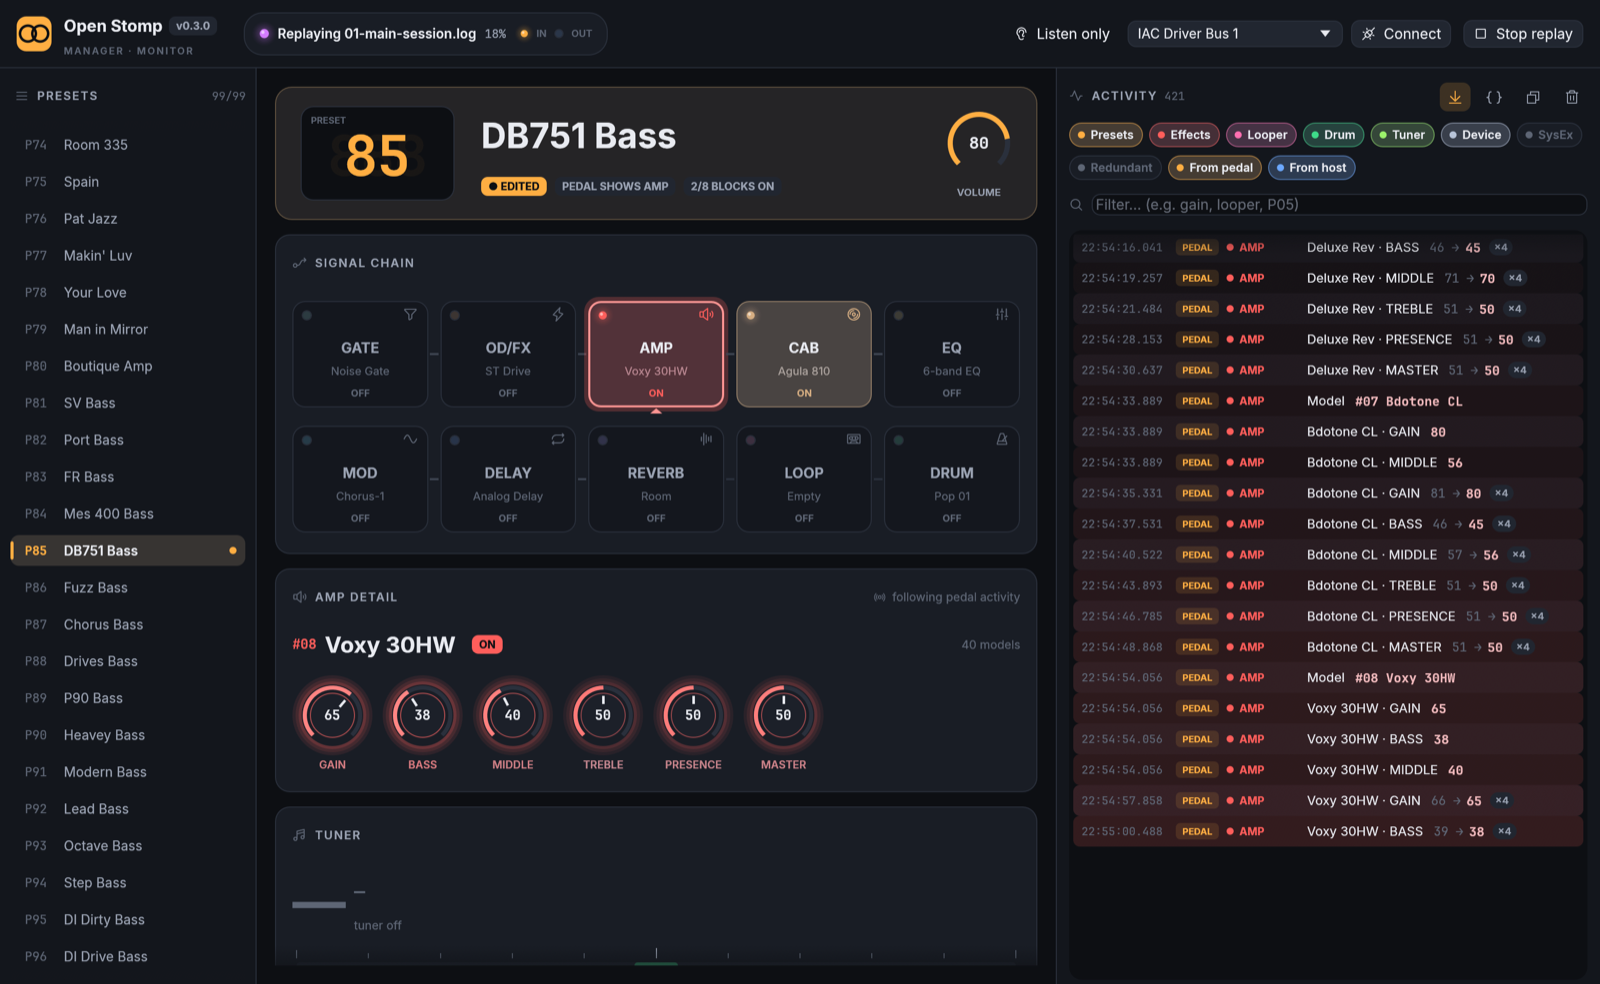
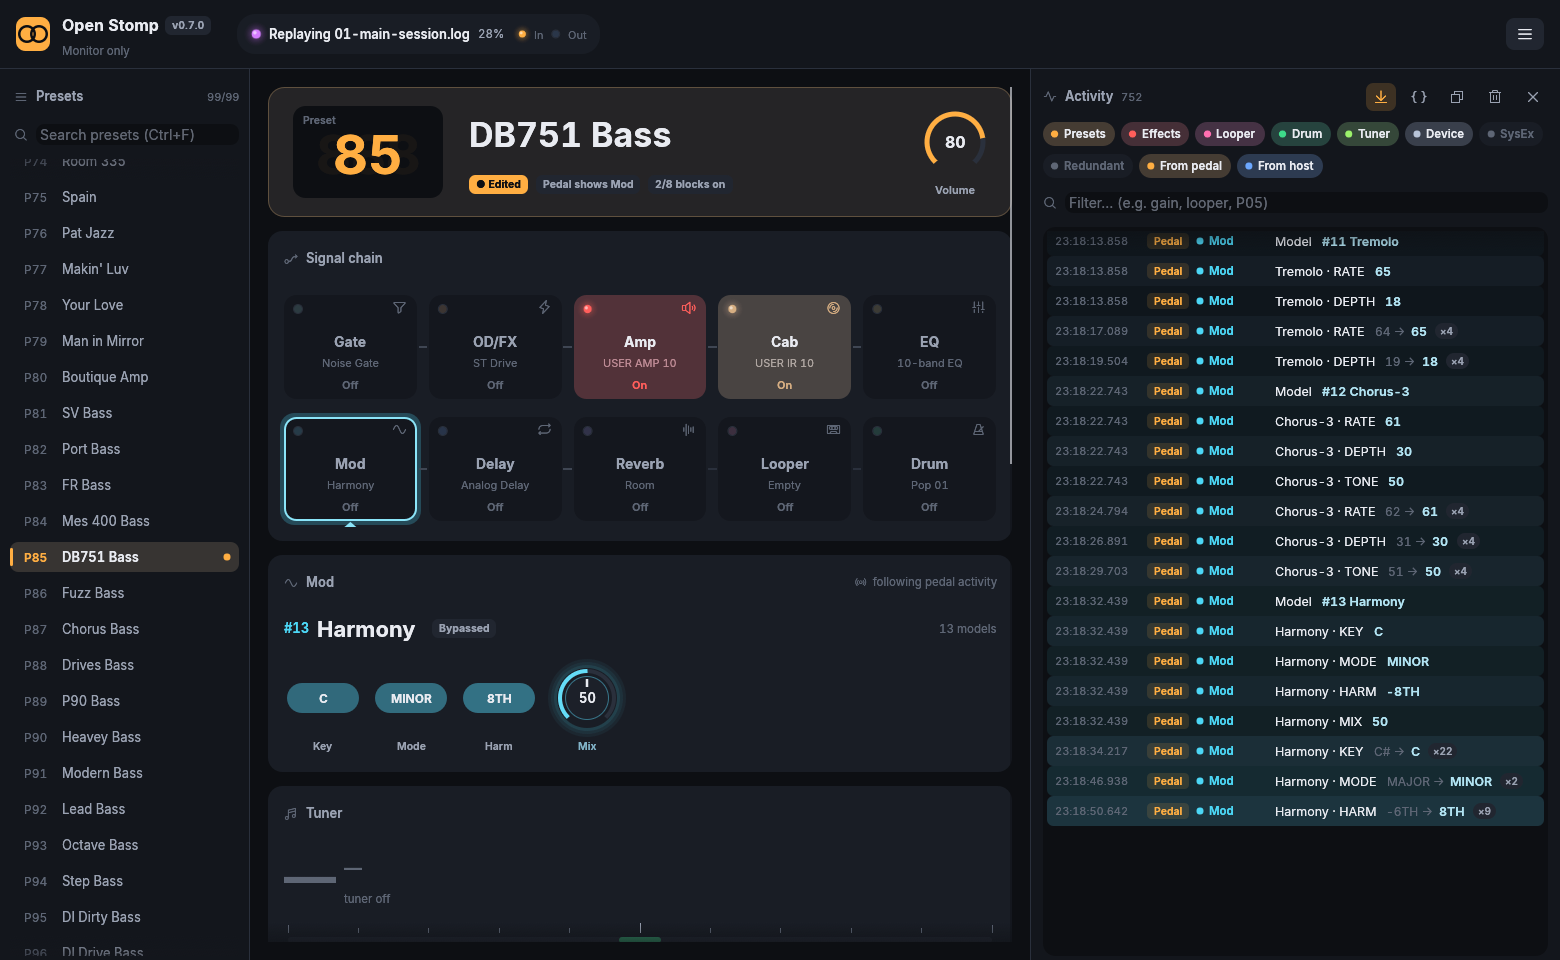
Docs: new screenshot (0.7.0, activity log open); link the NAM/IR results on the docs site

diff --git a/docs/user-guide.md b/docs/user-guide.md
@@ -171,7 +171,7 @@ warns before replacing one in use) and the conversion:
 
 * **Optimised** (default, about a minute): open-stomp fits the pedal's two filters through a simulation of the pedal
   until it sounds like the model. On hardware this is much closer to the real model than the official app's
-  conversion (see the open-stomp-lib README).
+  conversion ([results](https://jackmechem.github.io/open-stomp-lib/analysis/results.html)).
 * **Official app's algorithm** (a few seconds): the same conversion as the official Stomp Manager.
 
 **Normalise** (on by default) plays every model at the same volume, like NAM plugins do, whatever level it was
